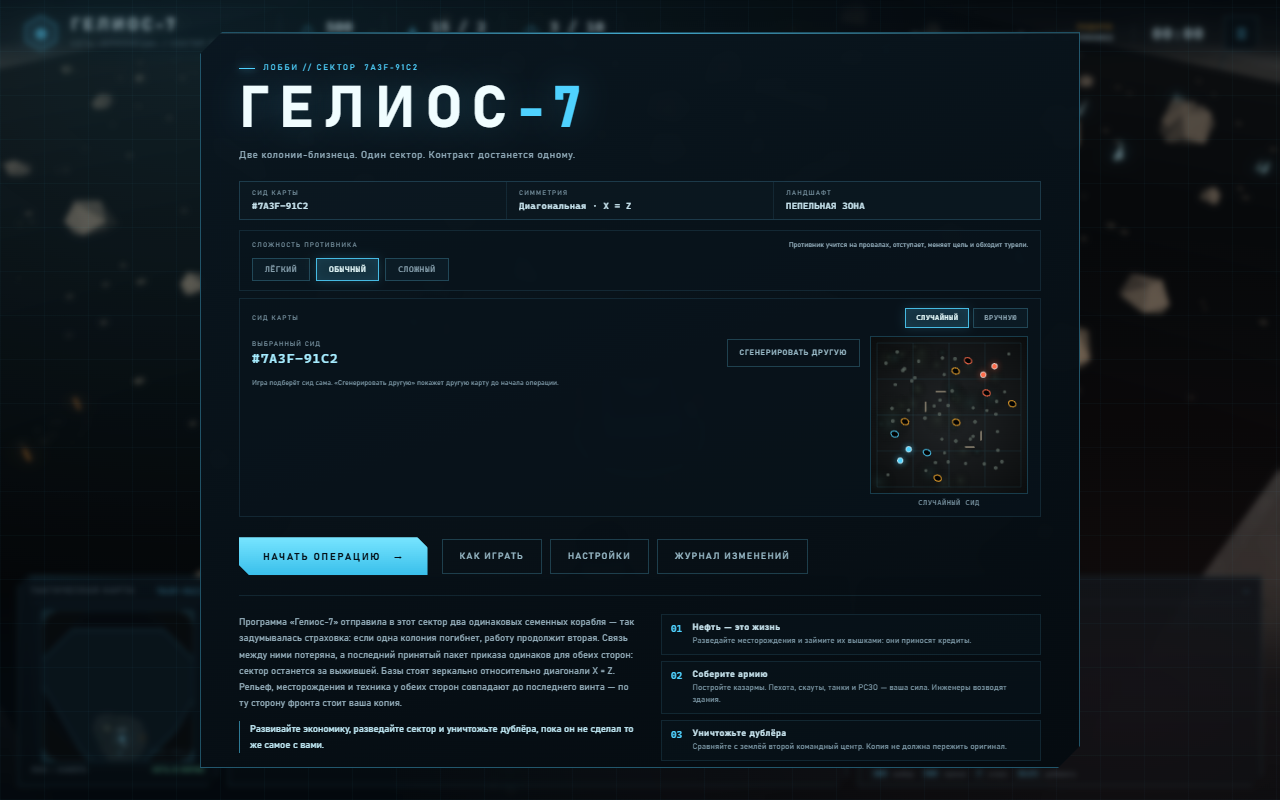
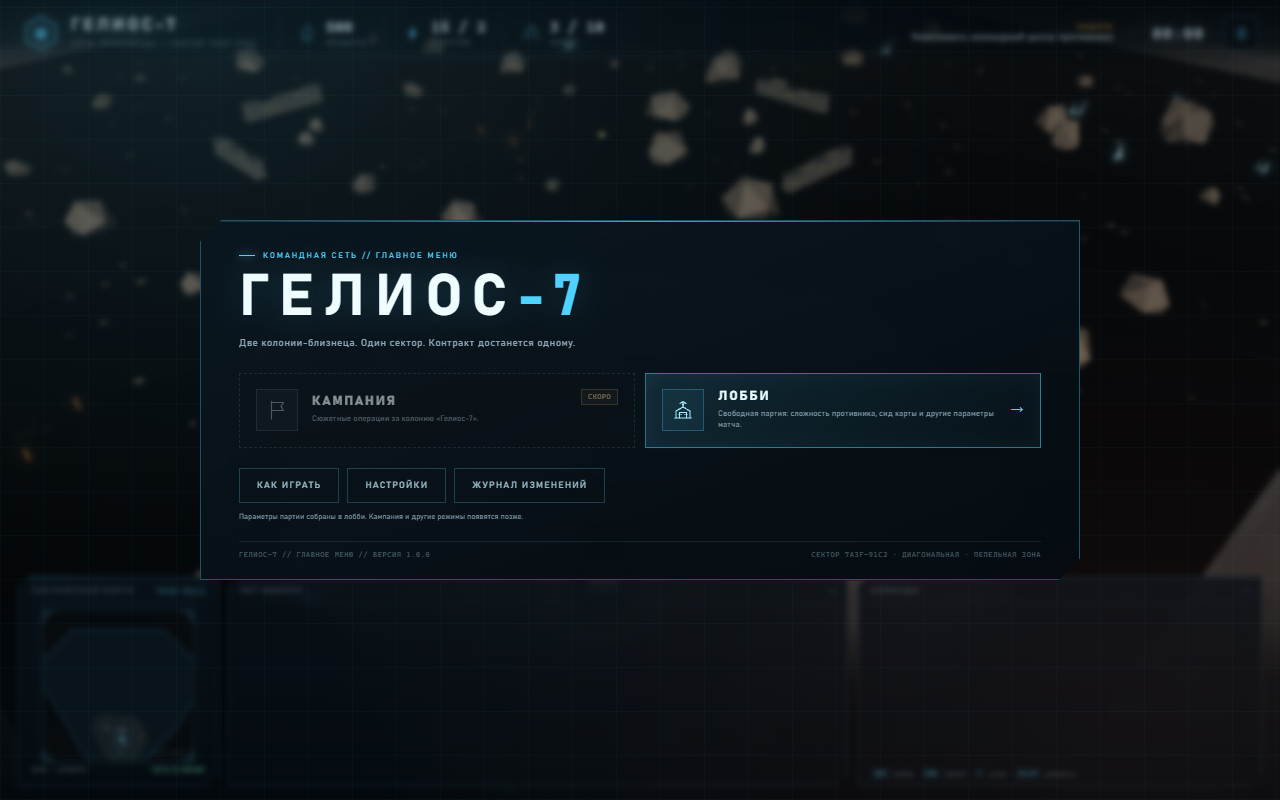
feat: add main menu with campaign and lobby

diff --git a/src/ui.js b/src/ui.js
@@ -48,6 +48,9 @@ export class UI {
     this.tooltipVisible = false;
     this.overlayOpen = true;
     this.overlayBack = null;
+    // Главное меню и лобби — разные экраны: параметры матча живут только
+    // в лобби, а из него можно вернуться в меню.
+    this.inLobby = false;
     this.settingsTab = 'graphics';
     // Лобби: сложность выбирается сразу, а сид карты — случайно (по умолчанию)
     // или вручную. Режим из адреса нужен, чтобы F5 после ручного сида возвращал
@@ -135,6 +138,7 @@ export class UI {
       const action = e.target.closest('[data-action]')?.dataset.action;
       if (!action) return;
       if (action === 'start') this.startGame();
+      else if (action === 'lobby') this.showLobby();
       else if (action === 'reroll') this.rerollSeed();
       else if (action === 'resume') this.resume();
       else if (action === 'restart') window.location.reload();
@@ -210,12 +214,53 @@ export class UI {
   // --------------------------------------------------------------- overlays
   showStart() {
     this.overlayBack = null;
+    this.inLobby = false;
+    const map = this.game.map;
+    const html = `
+      <div class="overlay-top">
+        <div class="eyebrow"><i></i> КОМАНДНАЯ СЕТЬ // ГЛАВНОЕ МЕНЮ</div>
+        <h1>ГЕЛИОС<span>-7</span></h1>
+        <p class="tagline">Две колонии-близнеца. Один сектор. Контракт достанется одному.</p>
+      </div>
+      <div class="mode-grid">
+        <button type="button" class="mode-card mode-card--locked" disabled aria-disabled="true"
+          title="Кампания появится в следующих обновлениях">
+          <span class="mode-mark">${icon('flag')}</span>
+          <span class="mode-copy"><b>КАМПАНИЯ</b><small>Сюжетные операции за колонию «Гелиос-7».</small></span>
+          <span class="mode-badge">СКОРО</span>
+        </button>
+        <button type="button" class="mode-card mode-card--active" data-action="lobby">
+          <span class="mode-mark">${icon('hq')}</span>
+          <span class="mode-copy"><b>ЛОББИ</b><small>Свободная партия: сложность противника, сид карты и другие параметры матча.</small></span>
+          <span class="mode-arrow">→</span>
+        </button>
+      </div>
+      <div class="overlay-actions">
+        <div class="menu-links">
+          <button class="btn-ghost" data-action="help">КАК ИГРАТЬ</button>
+          <button class="btn-ghost" data-action="settings">НАСТРОЙКИ</button>
+          <button class="btn-ghost" data-action="changelog">ЖУРНАЛ ИЗМЕНЕНИЙ</button>
+        </div>
+      </div>
+      <p class="overlay-note start-note">Параметры партии собраны в лобби. Кампания и другие режимы появятся позже.</p>
+      <div class="overlay-footer">
+        <span>ГЕЛИОС-7 // ГЛАВНОЕ МЕНЮ // ВЕРСИЯ ${GAME_VERSION}</span>
+        <span>СЕКТОР ${map.label} · ${map.symmetry.name.toUpperCase()} · ${map.style.name}</span>
+      </div>
+    `;
+    this.setOverlay(html, 'overlay--start');
+  }
+
+  /** Лобби: параметры матча и запуск операции. */
+  showLobby() {
+    this.inLobby = true;
+    this.overlayBack = () => this.showStart();
     const map = this.game.map;
     const html = `
       <div class="overlay-top">
         <div class="eyebrow"><i></i> ЛОББИ // СЕКТОР <span id="lobbySector">${map.label}</span></div>
         <h1>ГЕЛИОС<span>-7</span></h1>
-        <p class="tagline">Две колонии-близнеца. Один сектор. Контракт достанется одному.</p>
+        <p class="tagline">Параметры операции: сложность противника и карта. Выбор действует до начала боя.</p>
       </div>
       <div class="map-strip lobby-map-strip" id="lobbyMapStrip">
         <div class="map-strip-item"><span>СИД КАРТЫ</span><b id="lobbySeed">#${map.label}</b></div>
@@ -228,6 +273,7 @@ export class UI {
       </div>
       <div class="overlay-actions">
         <button class="btn-primary" data-action="start">НАЧАТЬ ОПЕРАЦИЮ <span>→</span></button>
+        <button class="btn-ghost" data-action="back">← В ГЛАВНОЕ МЕНЮ</button>
         <div class="menu-links">
           <button class="btn-ghost" data-action="help">КАК ИГРАТЬ</button>
           <button class="btn-ghost" data-action="settings">НАСТРОЙКИ</button>
@@ -251,7 +297,7 @@ export class UI {
         <span id="lobbyFooterMeta">${map.symmetry.name.toUpperCase()} · ${map.style.name} · BABYLON.JS</span>
       </div>
     `;
-    this.setOverlay(html, 'overlay--start');
+    this.setOverlay(html, 'overlay--lobby');
     this.refreshLobbyPreview();
   }
 
@@ -546,6 +592,7 @@ export class UI {
 
   showEnd(result) {
     this.overlayBack = null;
+    this.inLobby = false;
     const victory = result === 'victory';
     const s = this.game.stats;
     const map = this.game.map;
@@ -593,6 +640,7 @@ export class UI {
   openPause() {
     if (!this.game.started || this.game.over) return;
     this.overlayBack = null;
+    this.inLobby = false;
     this.game.setPaused(true);
     const map = this.game.map;
     const html = `
@@ -654,6 +702,8 @@ export class UI {
 
   beginGame() {
     document.activeElement?.blur?.();
+    this.overlayBack = null;
+    this.inLobby = false;
     this.overlayOpen = false;
     this.el.overlay.classList.remove('is-open');
     document.body.classList.remove('overlay-open');
@@ -697,10 +747,11 @@ export class UI {
     window.location.assign(url.toString());
   }
 
-  /** Куда вернуться из вложенного экрана меню: на итоги, в паузу или на старт. */
+  /** Куда вернуться из вложенного экрана меню: на итоги, в паузу, лобби или старт. */
   backTarget() {
     if (this.game.over) return () => this.showEnd(this.game.over);
     if (this.game.started) return () => this.openPause();
+    if (this.inLobby) return () => this.showLobby();
     return () => this.showStart();
   }
 

diff --git a/styles.css b/styles.css
@@ -1448,6 +1448,116 @@ body.mode-attack #scene {
   color: #8ea8b6;
 }
 
+/* Главное меню: выбор режима. Лобби — единственный доступный пока режим. */
+.mode-grid {
+  display: grid;
+  grid-template-columns: repeat(2, minmax(0, 1fr));
+  gap: 10px;
+  margin-top: 22px;
+}
+
+.mode-card {
+  display: flex;
+  align-items: center;
+  gap: 14px;
+  min-width: 0;
+  padding: 15px 16px;
+  border: 1px solid var(--line);
+  background: rgba(8, 20, 27, 0.62);
+  color: var(--text);
+  text-align: left;
+  cursor: pointer;
+  font-family: var(--font-display);
+  transition: border-color 0.15s, background 0.15s, box-shadow 0.15s, transform 0.15s;
+}
+
+.mode-card--active {
+  border-color: rgba(79, 210, 255, 0.5);
+  background: linear-gradient(135deg, rgba(79, 210, 255, 0.12), rgba(8, 20, 27, 0.75));
+  box-shadow: inset 0 0 18px rgba(79, 210, 255, 0.06);
+}
+
+.mode-card--active:hover {
+  border-color: rgba(79, 210, 255, 0.95);
+  box-shadow: 0 0 22px rgba(79, 210, 255, 0.14), inset 0 0 18px rgba(79, 210, 255, 0.08);
+  transform: translateY(-1px);
+}
+
+.mode-card:focus-visible {
+  outline: 1px solid var(--cyan);
+  outline-offset: 2px;
+}
+
+.mode-card--locked {
+  opacity: 0.55;
+  cursor: not-allowed;
+  border-style: dashed;
+  filter: saturate(0.5);
+}
+
+.mode-mark {
+  flex: 0 0 42px;
+  width: 42px;
+  height: 42px;
+  display: grid;
+  place-items: center;
+  padding: 8px;
+  border: 1px solid rgba(79, 210, 255, 0.28);
+  background: rgba(79, 210, 255, 0.06);
+  color: var(--cyan-soft);
+}
+
+.mode-card--locked .mode-mark {
+  border-color: rgba(120, 147, 161, 0.3);
+  color: var(--dim);
+}
+
+.mode-mark svg {
+  width: 100%;
+  height: 100%;
+}
+
+.mode-copy {
+  flex: 1 1 auto;
+  min-width: 0;
+  display: flex;
+  flex-direction: column;
+  gap: 4px;
+}
+
+.mode-copy b {
+  font-size: 13px;
+  font-weight: 700;
+  letter-spacing: 0.14em;
+  color: #eaffff;
+}
+
+.mode-copy small {
+  font-size: 8px;
+  line-height: 1.45;
+  color: var(--dim);
+}
+
+.mode-badge {
+  flex: 0 0 auto;
+  align-self: flex-start;
+  padding: 3px 6px;
+  border: 1px solid rgba(255, 176, 46, 0.35);
+  background: rgba(255, 176, 46, 0.08);
+  color: var(--amber);
+  font-family: var(--font-mono);
+  font-size: 6.5px;
+  letter-spacing: 0.12em;
+  white-space: nowrap;
+}
+
+.mode-arrow {
+  flex: 0 0 auto;
+  font-size: 17px;
+  line-height: 1;
+  color: var(--cyan);
+}
+
 .brief-grid {
   display: grid;
   grid-template-columns: 1.02fr 0.98fr;
@@ -2005,6 +2115,14 @@ body.mode-attack #scene {
 }
 
 @media (max-width: 760px) {
+  .mode-grid {
+    grid-template-columns: 1fr;
+  }
+
+  .mode-card {
+    padding: 12px 13px;
+  }
+
   .map-strip {
     grid-template-columns: 1fr 1fr;
   }

diff --git a/src/changelog.js b/src/changelog.js
@@ -15,7 +15,7 @@ export const CHANGELOG = [
       {
         "title": "Добавлено",
         "items": [
-          "Лобби начала игры. Перед операцией теперь видно не только карту, но и все настройки партии: сложность противника и способ выбора сида — случайный (по умолчанию) или ручной. В ручном режиме сид вводится hex-кодом или любым словом, а лобби сразу показывает мини-карту, симметрию и ландшафт выбранного сектора. Кнопка «Сгенерировать другую» перебирает случайные варианты, не начиная партию; одинаковый сид по-прежнему создаёт одну и ту же карту.",
+          "Главное меню и отдельное лобби. Стартовый экран стал главным меню: «Кампания» пока неактивна, а свободная партия настраивается в лобби. Там собраны параметры матча: сложность противника и способ выбора сида — случайный (по умолчанию) или ручной. В ручном режиме сид вводится hex-кодом или любым словом, а лобби сразу показывает мини-карту, симметрию и ландшафт выбранного сектора. Кнопка «Сгенерировать другую» перебирает случайные варианты, не начиная партию; одинаковый сид по-прежнему создаёт одну и ту же карту. Лобби станет местом и для других будущих параметров матча.",
           "Настраиваемая сложность противника. В лобби появился выбор из трёх режимов. На лёгком ИИ не запоминает провалы, не отступает и атакует реже; на сложном он тот же умный, но богаче, настойчивее и требует куда больше войск для обороны. Выбор сохраняется в браузере и действует со следующей партии."
         ]
       }

diff --git a/README.md b/README.md
@@ -39,12 +39,15 @@ node server.mjs
 
 ## Карты и сиды
 
-Карта полностью определяется 32-битным сидом. Перед партией лобби предлагает
-выбрать сложность противника и способ выбора сида: случайный (по умолчанию)
-или ручной. В ручном режиме введите до восьми hex-символов (например,
-`7A3F91C2`) или любое слово — лобби сразу покажет мини-карту, симметрию и
-ландшафт будущего сектора. Кнопка **«Сгенерировать другую»** подбирает новый
-случайный сид.
+Карта полностью определяется 32-битным сидом. В главном меню откройте
+**«Лобби»**: там собраны параметры матча — сложность противника и способ
+выбора сида, случайный (по умолчанию) или ручной. В ручном режиме введите до
+восьми hex-символов (например, `7A3F91C2`) или любое слово — лобби сразу
+покажет мини-карту, симметрию и ландшафт будущего сектора. Кнопка
+**«Сгенерировать другую»** подбирает новый случайный сид. Кнопка
+**«Кампания»** в главном меню пока неактивна: сюжетный режим появится позже.
+
+![Лобби](screenshots/lobby.png)
 
 Без параметра в адресе игра выбирает случайный сид и записывает его в строку
 браузера, поэтому обновление страницы оставляет ту же карту. Ссылкой можно
@@ -111,9 +114,11 @@ npm run verify:maps
   остаются приглушёнными на карте и на тактической карте. Противник видит
   так же, как и вы, поэтому скауты и разведка боем стали по-настоящему
   полезны.
-- **Лобби перед партией** — выбор сложности противника и сида карты:
-  случайный (по умолчанию) или ручной, с живым предпросмотром — мини-карта,
-  симметрия и ландшафт. Ручной сид вводится hex-кодом или обычным словом.
+- **Главное меню и лобби** — на старте два режима: «Кампания» (пока
+  недоступна) и «Лобби» для свободной партии. В лобби выбираются сложность
+  противника и сид карты: случайный (по умолчанию) или ручной, с живым
+  предпросмотром — мини-карта, симметрия и ландшафт. Ручной сид вводится
+  hex-кодом или обычным словом. Лобби — место и для будущих параметров матча.
 - **Бесконечные симметричные карты** — 5 типов симметрии и 4 палитры
   ландшафта. Сид карты виден в интерфейсе и хранится в адресе (`?seed=...`).
   Поле боя — ±90 единиц, в полтора раза больше прежнего.

diff --git a/CHANGELOG.md b/CHANGELOG.md
@@ -15,12 +15,14 @@ _Изменения, ещё не вошедшие в релиз._
   в ленте сообщений появляется строка об отходе, а если несколько атак подряд
   отложены — предупреждение о подготовке крупного удара. Раньше «умное»
   поведение противника выглядело как внезапное затишье.
-- **Лобби начала игры.** Перед операцией теперь видно не только карту, но и
-  все настройки партии: сложность противника и способ выбора сида — случайный
-  (по умолчанию) или ручной. В ручном режиме сид вводится hex-кодом или любым
-  словом, а лобби сразу показывает мини-карту, симметрию и ландшафт выбранного
-  сектора. Кнопка «Сгенерировать другую» перебирает случайные варианты, не
-  начиная партию; одинаковый сид по-прежнему создаёт одну и ту же карту.
+- **Главное меню и отдельное лобби.** Стартовый экран стал главным меню:
+  «Кампания» пока неактивна, а свободная партия настраивается в лобби. Там
+  собраны параметры матча: сложность противника и способ выбора сида —
+  случайный (по умолчанию) или ручной. В ручном режиме сид вводится hex-кодом
+  или любым словом, а лобби сразу показывает мини-карту, симметрию и ландшафт
+  выбранного сектора. Кнопка «Сгенерировать другую» перебирает случайные
+  варианты, не начиная партию; одинаковый сид по-прежнему создаёт одну и ту же
+  карту. Лобби станет местом и для других будущих параметров матча.
 - **Настраиваемая сложность противника.** В лобби появился выбор из трёх
   режимов. На лёгком ИИ не запоминает провалы, не отступает и атакует реже;
   на сложном он тот же умный, но богаче, настойчивее и требует куда больше
